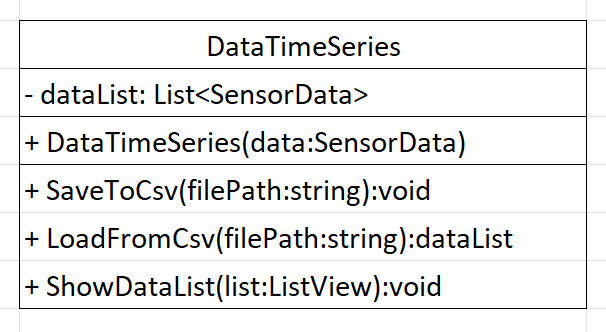
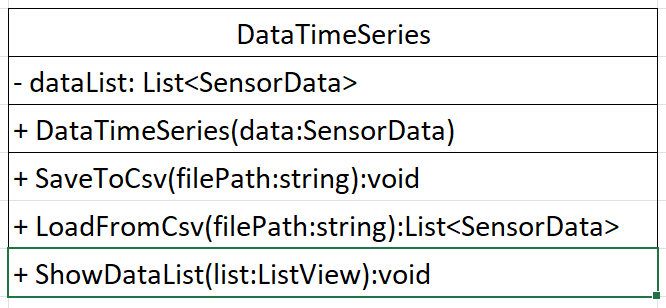
SensorData class & Mainwindow upgraded

Changed region(s): [[0.0, 0.0, 1.0, 0.9935]]

diff --git a/SensorApp/SensorApp/MainWindow.xaml b/SensorApp/SensorApp/MainWindow.xaml
@@ -5,7 +5,7 @@
         xmlns:mc="http://schemas.openxmlformats.org/markup-compatibility/2006"
         xmlns:local="clr-namespace:SensorApp"
         mc:Ignorable="d"
-        Title="SensorApp" Height="450" Width="800">
+        Title="SensorApp" Height="450" Width="800" Loaded="Window_Loaded">
     <DockPanel>
         <StackPanel DockPanel.Dock="Left" Background="LightGray" Width="150">
             <Label FontSize="30" Content="Daten:"/>
@@ -18,8 +18,37 @@
             <Button x:Name="ListButton" Content="Liste" Margin="5" Padding="10" Click="ListButton_Click"/>
         </StackPanel>
 
-        <Canvas>
+
+
+        <Grid  x:Name="GridDraw" Margin="20" Background="LightGray">
+            <Grid.ColumnDefinitions>
+                <ColumnDefinition Width="*"/>
+                <ColumnDefinition Width="2*"/>
+                <ColumnDefinition Width="2*"/>
+                <ColumnDefinition Width="2*"/>
+                <ColumnDefinition Width="*"/>
+            </Grid.ColumnDefinitions>
+
+            <Grid.RowDefinitions>
+                <RowDefinition Height="*"/>
+                <RowDefinition Height="8*"/>
+                <RowDefinition Height="*"/>
+            </Grid.RowDefinitions>
             
-        </Canvas>
+            <Rectangle Grid.Row="1" Grid.Column="1" Height="0" Width="74" Canvas.Left="148" Canvas.Top="248"
+                    Stroke="Black" Fill="Red" VerticalAlignment="Bottom"/>
+            <Rectangle Grid.Row="1" Grid.Column="2" Height="0" Width="74" Canvas.Left="148" Canvas.Top="248"
+                    Stroke="Black" Fill="Green" VerticalAlignment="Bottom"/>
+            <Rectangle Grid.Row="1" Grid.Column="3" Height="0" Width="74" Canvas.Left="148" Canvas.Top="248"
+                    Stroke="Black" Fill="Blue" VerticalAlignment="Bottom"/>
+
+            <Label Grid.Row="2" Grid.Column="1" FontSize="15" HorizontalAlignment="Center"
+                   VerticalAlignment="Center">X-Achse: 0 °</Label>
+            <Label Grid.Row="2" Grid.Column="2" FontSize="15" HorizontalAlignment="Center"
+                   VerticalAlignment="Center">Y-Achse: 0 °</Label>
+            <Label Grid.Row="2" Grid.Column="3" FontSize="15" HorizontalAlignment="Center"
+                   VerticalAlignment="Center">Z-Achse: 0 °</Label>
+        </Grid>
+
     </DockPanel>
 </Window>

diff --git a/SensorApp/SensorApp/DataListWindow.xaml b/SensorApp/SensorApp/DataListWindow.xaml
@@ -8,8 +8,6 @@
         Title="DataListWindow" Height="250" Width="400">
     <ListView>
         <ListViewItem Content="Hallo"/>
-        <ListViewItem Content="Hallo"/>
-        <ListViewItem Content="Hallo"/>
-        <ListViewItem Content="Hallo"/>
+        
     </ListView>
 </Window>

diff --git a/SensorApp/SensorData/SensorData.cs b/SensorApp/SensorData/SensorData.cs
@@ -6,14 +6,10 @@ namespace SensorLib
 {
     public class SensorData
     {
-        public double temp { get; set; }
-
-        public double xAxis { get; set; }
-
-        public double yAxis { get; set; }
-
-        public double zAxis { get; set; }
-
+        public double Temp { get; set; }
+        public double XAxis { get; set; }
+        public double YAxis { get; set; }
+        public double ZAxis { get; set; }
         public DateTime TimeStamp { get; set; }
 
         public SensorData()
@@ -21,13 +17,33 @@ namespace SensorLib
 
         }
 
-        public void SerializeToCsv()
+        public SensorData(double temp, double xAxis, double yAxis, double zAxis, DateTime timeStamp)
         {
-
+            Temp = temp;
+            XAxis = xAxis;
+            YAxis = yAxis;
+            ZAxis = zAxis;
+            TimeStamp = timeStamp;
         }
 
-        public void Deserialize()   // <- ReturnTyp to SensorData
+        public string SerializeToCsv()
         {
+            return $"{Temp};{XAxis};{YAxis};{ZAxis};{TimeStamp}";
+        }
+
+        public static SensorData Deserialize(string data)
+        {
+            string[] dataSplit = data.Split(";");
+
+            double temp = double.Parse(dataSplit[0]);
+            double xAxis = double.Parse(dataSplit[1]);
+            double yAxis = double.Parse(dataSplit[2]);
+            double zAxis = double.Parse(dataSplit[3]);
+            DateTime timeStamp = DateTime.Parse(dataSplit[4]);
+
+            SensorData sensorData = new SensorData(temp, xAxis, yAxis, zAxis, timeStamp);
+
+            return sensorData;
 
         }
 

diff --git a/SensorApp/SensorApp/MainWindow.xaml.cs b/SensorApp/SensorApp/MainWindow.xaml.cs
@@ -27,5 +27,10 @@ namespace SensorApp
             DataListWindow window = new DataListWindow();
             window.Show();
         }
+
+        private void Window_Loaded(object sender, RoutedEventArgs e)
+        {
+
+        }
     }
 }
